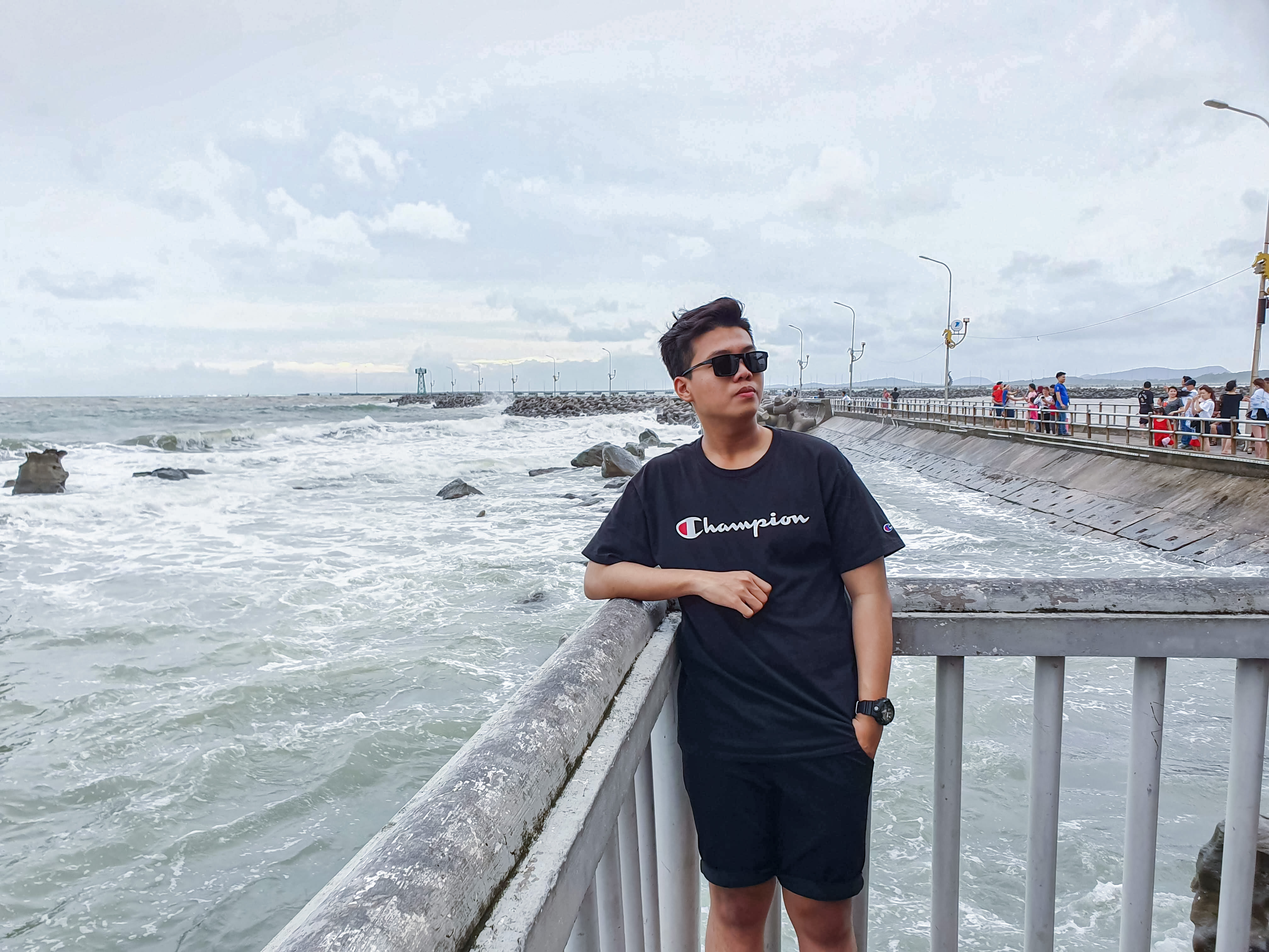
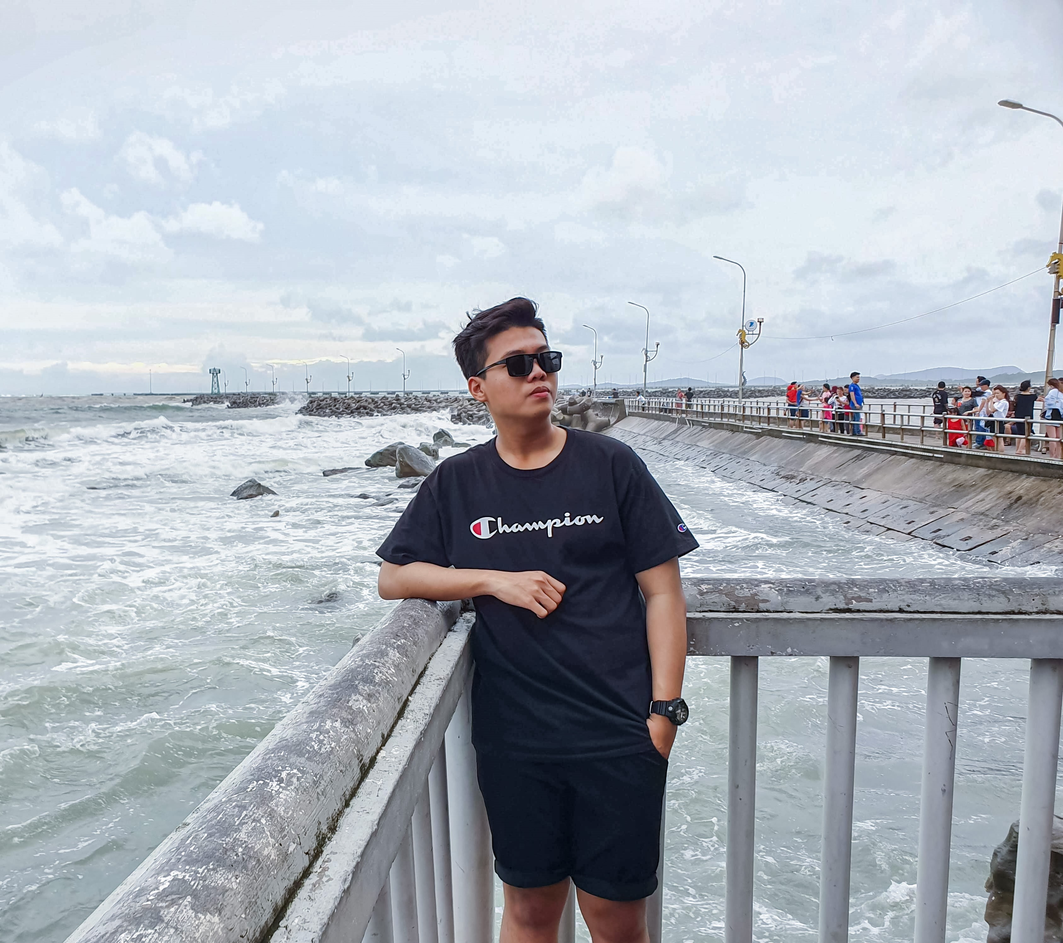
asm

diff --git a/asm.html b/asm.html
@@ -6,7 +6,7 @@ pre {
     font-size: 180%;
 }
 img {
-  border-radius: 8px;}
+  border-radius: 2px;}
 }
 ul {
     font-size: 110%;
@@ -44,7 +44,7 @@ body  {background-color: lightslategrey}
 </style>
 <h1 style="text-align:center;"> IT Profile </h1>
 <div class="profile">
-<img src="myself.png" alt="myself" width="500px" height="400">
+<img src="myself.JPG" alt="myself" width="600px" height="400">
 <br>
 <pre>
 Name: Nguyen Thanh Huy
